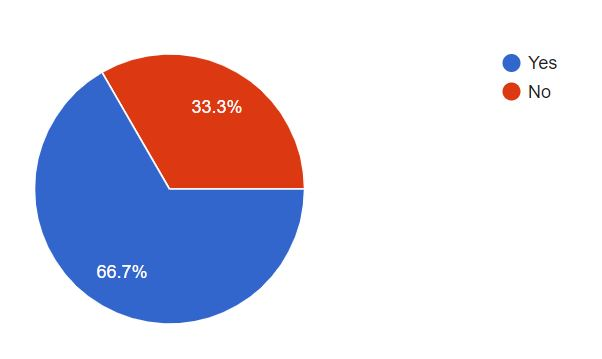
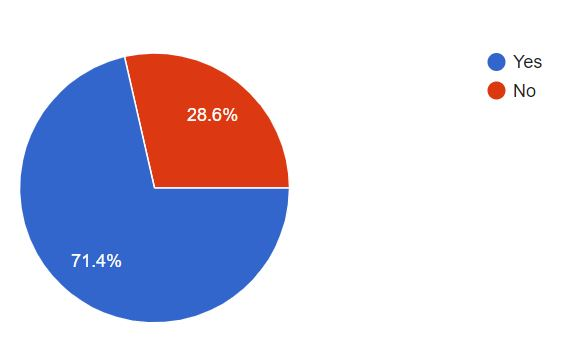
RTBS3 and 4 updates

diff --git a/_read-to-be-sure/4a-rtbs04-ukraine.md b/_read-to-be-sure/4a-rtbs04-ukraine.md
@@ -1,0 +1,39 @@
+---
+title: 'Who can help us filter the truth?'
+permalink: /read-to-be-sure/issue4-ukraine/
+breadcrumb: 'Who can help us filter the truth?'
+third_nav_title: 'Issue #4: Russia-Ukraine Information War'
+
+---
+
+![](../images/rtbs4-hot-button-ukraine.JPG)
+
+<table border="0" cellpadding="50">
+	<tbody>
+   <tr>
+    <th>TECH GIANTS SHOULD DO MORE TO TACKLE DISINFORMATION</th>
+    <th>WE SHOULD BE MORE DISCERNING AND SELF-RELIANT</th>
+  </tr>
+        <tr>
+            <td style="width: 50%;">The Prime Ministers of Poland, Lithuania, Latvia and Estonia urged the CEOs of Google, YouTube, Facebook and Twitter to proactively suspend accounts denying, glorifying or justifying wars of aggression, war crimes and crimes against humanity.
+                 <p><b><font size="3">Read more at <a href="https://www.channelnewsasia.com/business/google-facebook-twitter-must-combat-ukraine-fake-news-polish-baltic-leaders-2526116">CHANNELNEWSASIA</a></font></b></p>
+            </td>
+            <td style="width: 50%;">There is a limit to what social media companies can do.  They sometimes face the demands of an authoritarian government that pressures them to censor content it doesn’t like, and to allow propaganda to run unchecked.
+                <p><b><font size="3">Read more at <a href="https://www.vox.com/2022/2/26/22951757/russia-facebook-twitter-youtube-censorship-social-media">VOX</a></font></b></p>
+                </td>
+        </tr>
+		<tr>
+            <td><b><font size="3">To know more about what tech giants have done about fake news:</font></b><br>
+                <a href="https://www.channelnewsasia.com/business/twitter-facebook-clamp-down-russia-state-linked-news-2527366">Twitter, Facebook clamp down on Russia state-linked news</a><br>&nbsp;<br>
+                                <a href="https://www.asiaone.com/digital/douyin-takes-down-more-3500-videos-about-war-ukrainea">Douyin takes down more than 3,500 videos about war in Ukraine</a>
+                </td>
+            <td><b><font size="3">To know more about fact-checking misleading information:</font></b><br>
+                <a href="https://fullfact.org/blog/2022/feb/how-to-fact-check-ukraine-videos/">Ukraine and beyond: How to fact check misleading videos</a><br>&nbsp;<br>
+                <a href="https://edition.cnn.com/2022/02/26/politics/fake-ukraine-videos-fact-check">Fact-checking fake videos of Ukraine conflict</a>
+                <a href="https://www.usatoday.com/story/news/factcheck/2022/02/28/fact-check-whats-true-and-whats-false-invasion-ukraine/6952717001/">Fact check roundup: What's true and what's false about the Russian invasion of Ukraine</a></td></tr>
+                </tbody></table>
+
+
+##### Who should help us filter the truth about the Russia-Ukraine conflict?  Take our **[poll](https://forms.gle/jPRLHNv5DXGgKtrEA)** now!
+
+![](../images/rtbs4-ukraine-poll-results.JPG)
